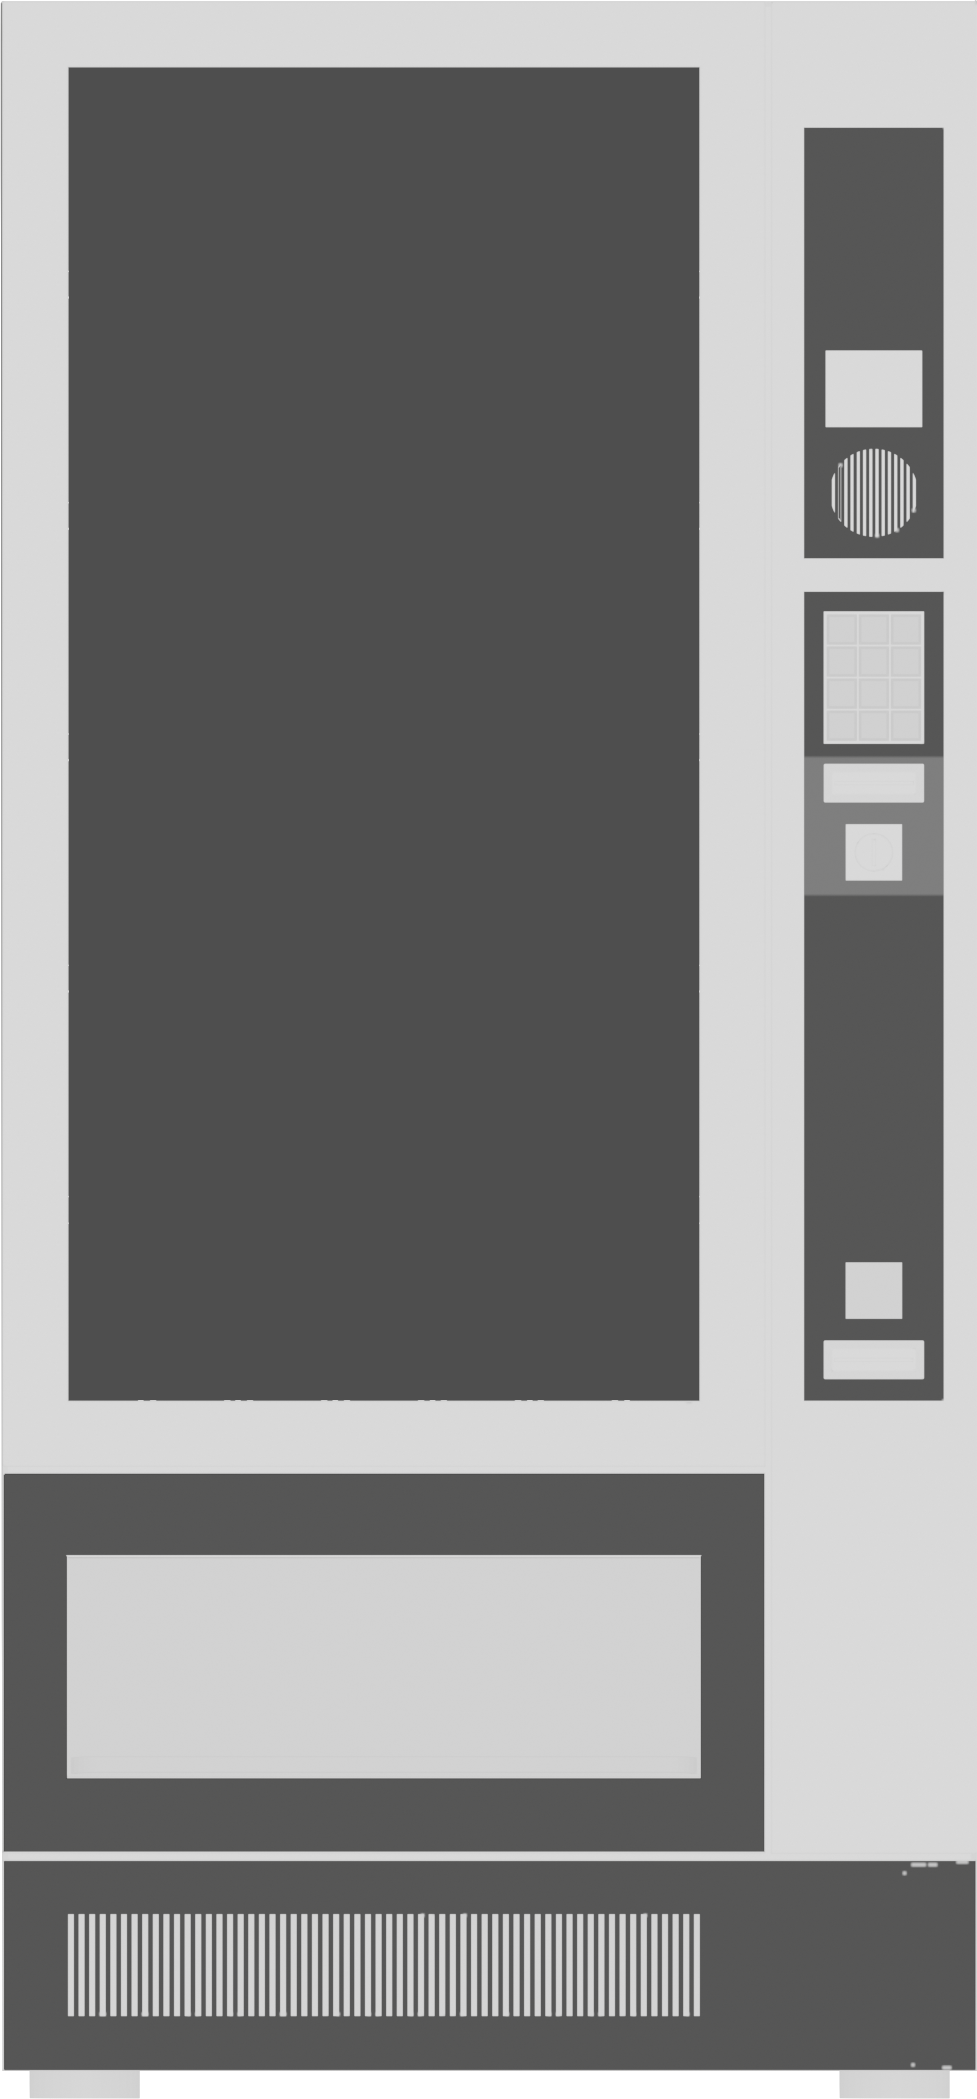
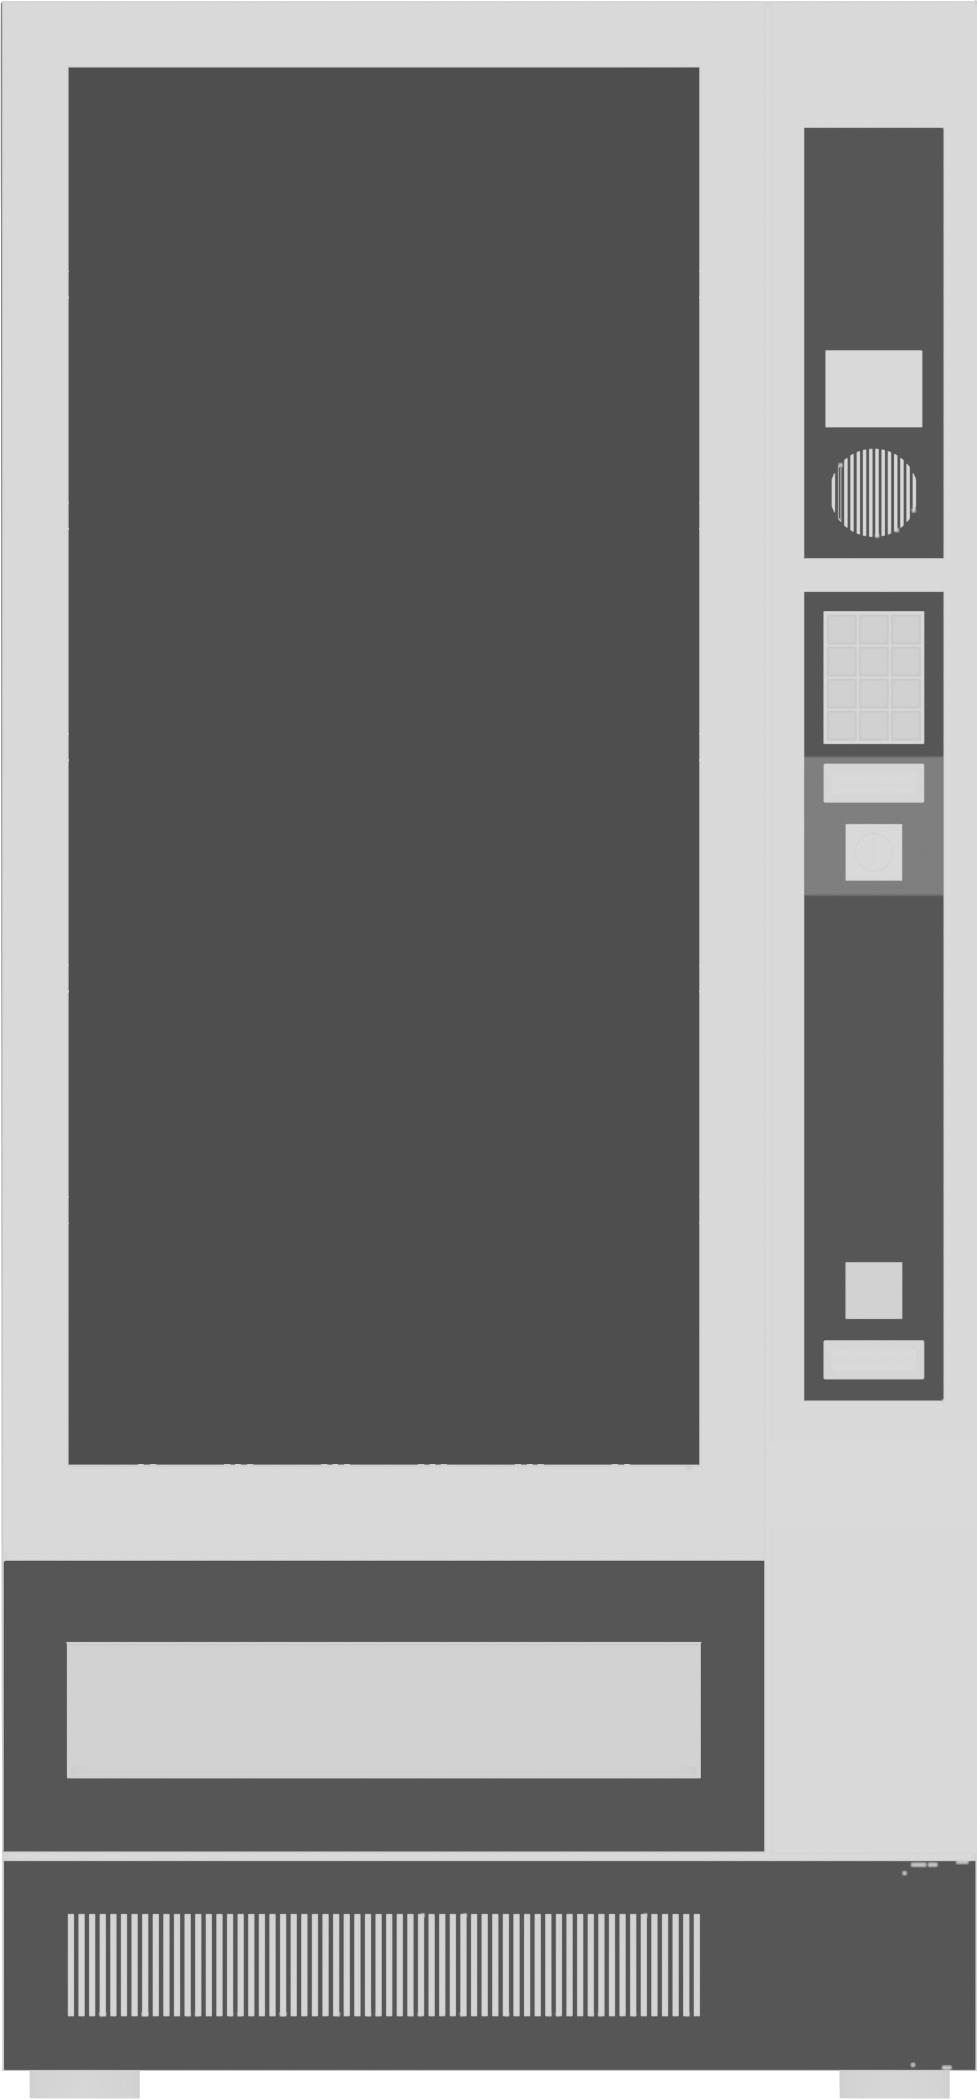
Setup screen pixel positions for windows

Changed region(s): [[0.0, 0.6503, 0.7984, 0.8051]]

diff --git a/vending_machine/src/vending_machine/ProgramGraphics.java b/vending_machine/src/vending_machine/ProgramGraphics.java
@@ -44,7 +44,7 @@ public class ProgramGraphics {
         backgroundPanel.setLayout(null); 
         
         // Numpad offsets
-        int numpadInitialX = 290; 
+        int numpadInitialX = 280; 
         int numpadInitialY = 220;  
         int numpadDeltaX = 20;
         int numpadDeltaY = 20;
@@ -59,9 +59,9 @@ public class ProgramGraphics {
        
         
 
-        productSelectedDisplay.setBounds(numpadInitialX + 20, numpadInitialY - 80, 50, 20);
+        productSelectedDisplay.setBounds(numpadInitialX + 15, numpadInitialY - 80, 50, 20);
         productSelectedDisplay.setFont(new Font("Arial", Font.PLAIN, 25));
-        productSelectedDisplay.setForeground(Color.green);
+        productSelectedDisplay.setForeground(Color.black);
         backgroundPanel.add(productSelectedDisplay);
         
 
@@ -128,10 +128,10 @@ public class ProgramGraphics {
         }
 
         // Slots
-        int displayInitialX = 30;
+        int displayInitialX = 25;
         int displayInitialY = 30;
         int displayDeltaX = 80;
-        int displayDeltaY = 130; 
+        int displayDeltaY = 132; 
         for (int i = 0; i < vendingMachine.getSlots().size(); i++) {
             int x = i % rowSize;
             int y = i / rowSize;
